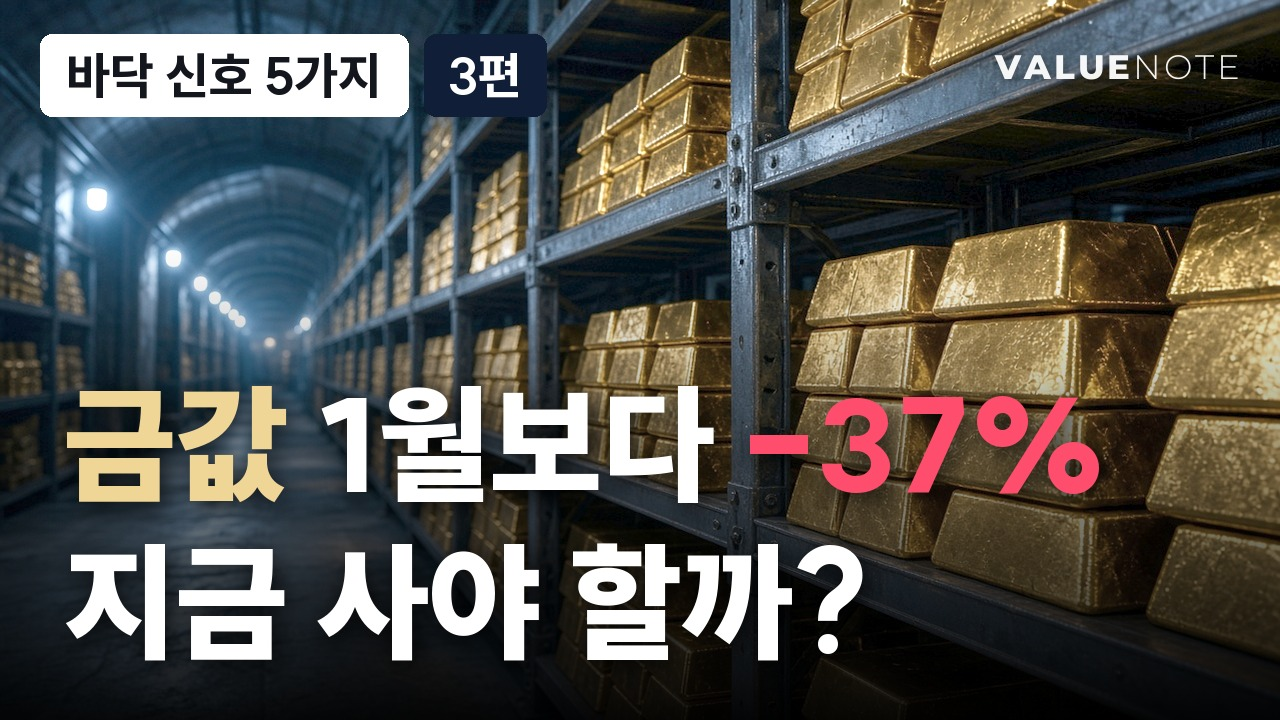
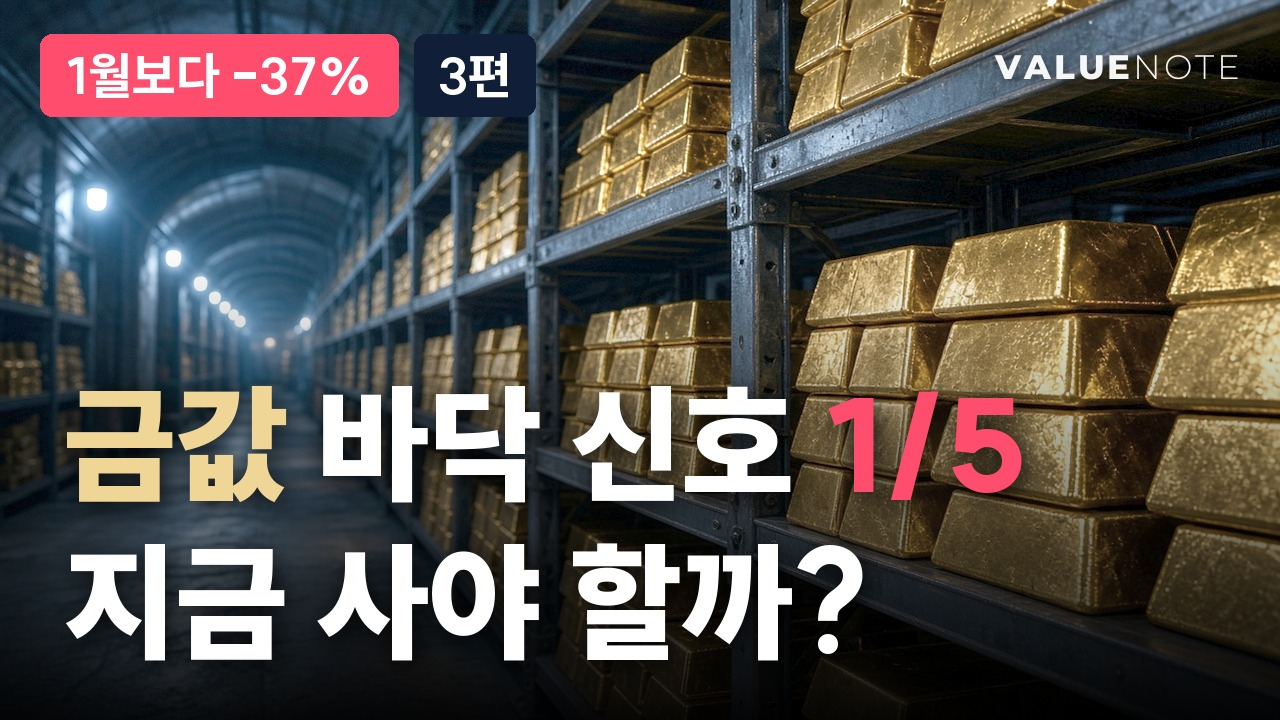
gold-3 썸네일 B: 금값 바닥 신호 1/5, 핑크 배너
Claude-Session: https://claude.ai/code/session_01KaYReGeNvFYwSy6KbuMUmu

Changed region(s): [[0.25, 0.5194, 0.875, 0.7028], [0.0312, 0.0306, 0.4375, 0.1833]]

diff --git a/scripts/youtube/long/drafts/L261124-gold-3_thumbs.py b/scripts/youtube/long/drafts/L261124-gold-3_thumbs.py
@@ -14,7 +14,7 @@ TW, TH = 1280, 720; PINK = vn2.PINK; WHITE = (255, 255, 255, 255)
 
 SETS = [   # 세 안 모두 '바닥 신호 5가지' 노출, 사진 3장 서로 다르게
     dict(file="thumb_a.jpg", photo="il_L261124g_thumb_goldbars.jpeg", fx=.55, l1="금값 바닥 신호 5가지", l2=("지금 1개 켜졌다", "")),
-    dict(file="thumb_b.jpg", photo="il_L261124g_goldvault_wide.jpeg", fx=.6, g2=True, chip="바닥 신호 5가지", l1=[("금값", "gold"), (" 1월보다 ", "w"), ("-37%", "pink")], l2=[("지금 사야 할까?", "w")]),   # 2026-11-24 17:45 대표: 한 안은 2편 썸네일(본 사람이 많음)과 비슷하게
+    dict(file="thumb_b.jpg", photo="il_L261124g_goldvault_wide.jpeg", fx=.6, g2=True, chip="1월보다 -37%", l1=[("금값", "gold"), (" 바닥 신호 ", "w"), ("1/5", "pink")], l2=[("지금 사야 할까?", "w")]),   # 2026-11-24 17:45 대표: 한 안은 2편 썸네일(본 사람이 많음)과 비슷하게
     dict(file="thumb_c.jpg", gauge="globe_L261124g_fx_gauge_final.mp4", l1="금값 바닥 신호 5가지", l2=("지금 1개", " 켜졌다")),   # 2026-11-24 17:44 대표: 한 안은 계기판 5개를 흐리게 깔고
 ]
 
@@ -60,7 +60,7 @@ def render_g2(t, out):
     for y in range(TH // 3, TH): d.line([0, y, TW, y], fill=(0, 0, 0, int(240 * ((y - TH / 3) / (TH * 2 / 3)) ** 1.1)))
     th.alpha_composite(g); D = ImageDraw.Draw(th)
     fc = F("ExtraBold", 50); cw = D.textlength(t["chip"], font=fc) + 52
-    D.rounded_rectangle([40, 34, 40 + cw, 34 + 82], 12, fill=(255, 255, 255, 250)); D.text((66, 44), t["chip"], font=fc, fill=(20, 22, 30))
+    D.rounded_rectangle([40, 34, 40 + cw, 34 + 82], 12, fill=(*PINK, 255)); D.text((66, 44), t["chip"], font=fc, fill=(255, 255, 255))   # 17:49 대표: 왼쪽 위 배너 잘 튀게 핑크
     x2 = 40 + cw + 16; cw2 = D.textlength("3편", font=fc) + 48
     D.rounded_rectangle([x2, 34, x2 + cw2, 34 + 82], 12, fill=(16, 30, 56, 245)); D.text((x2 + 24, 44), "3편", font=fc, fill=(255, 255, 255))
     L = vn2.logo_layer(34); th.alpha_composite(L, (TW - 40 - L.width + 12, 34))
